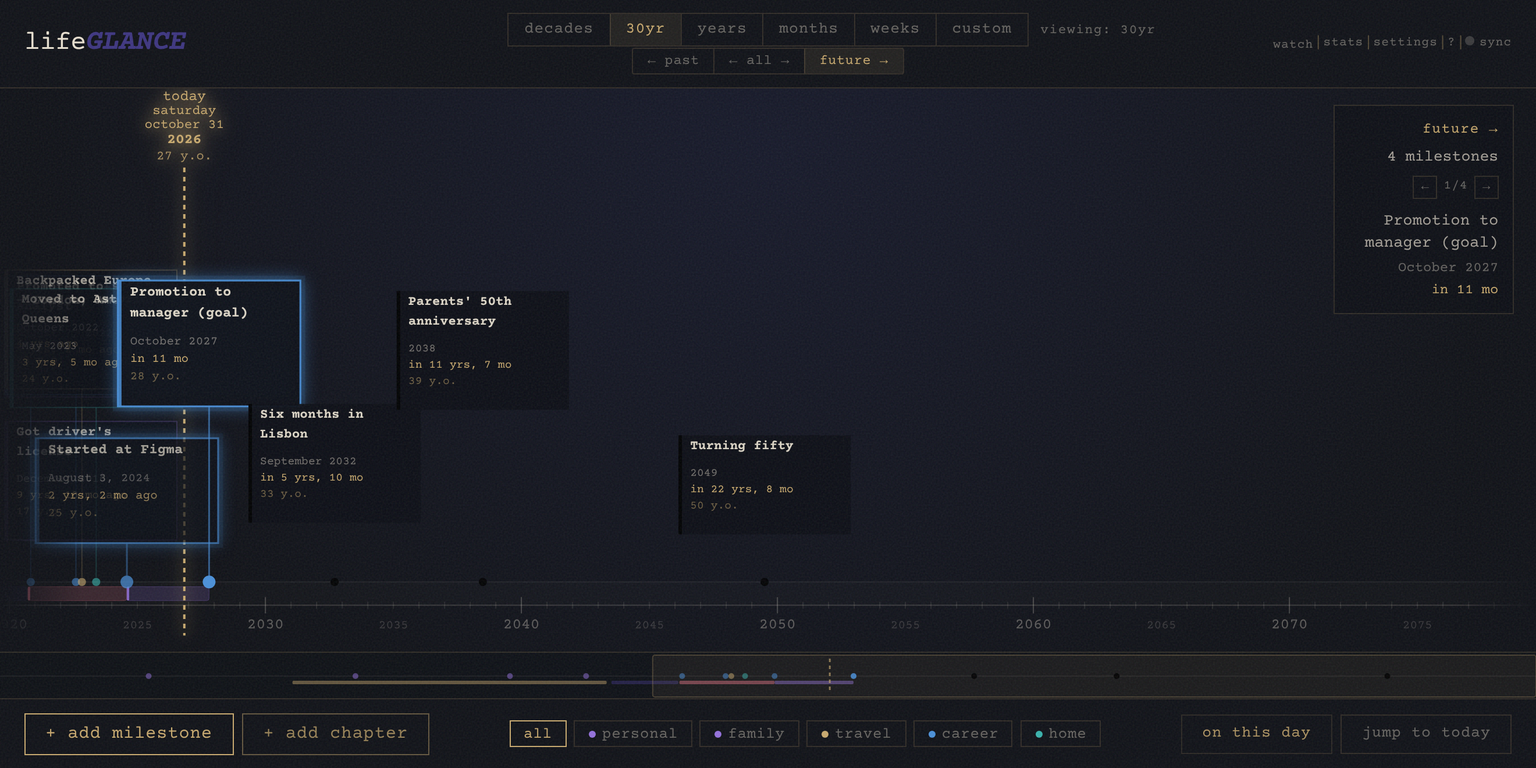
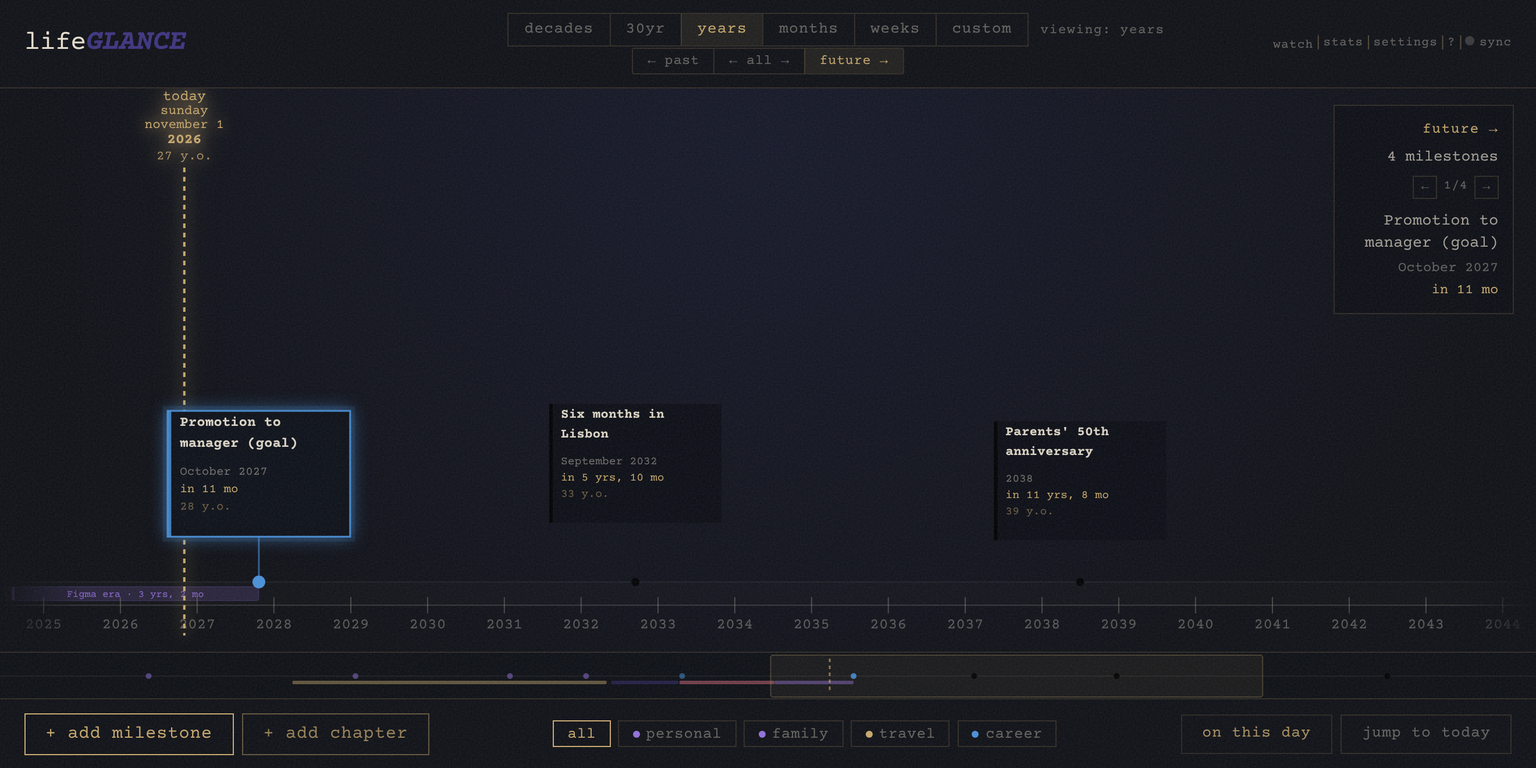
Rework store screenshots 2 and 3
Shot 3, THE FUTURE HALF. The 30yr zoom put the near-term milestones in a bunch
at the left and left the right 60% bare, which says the opposite of the
caption. Now 'years' in future view, which anchors today at 12% from the left
so the canvas goes to what is ahead.

That alone was not enough. Timeline.jsx does not cull a card just outside the
left edge — it clamps the x back into frame and only drops the card once it is
more than a card width out — so the 2022-2024 run stacked against the
boundary. Panning past it with ArrowRight pushed today off screen entirely, so
the shot gets its own seed instead, dropping that run. Everything remaining is
far enough back to be culled outright. Only past entries go, so the future
counter the shot displays is unchanged and still matches the rest of the set.

Shot 2, CHAPTERS. Cropped to the ribbon band plus the cards either side of it,
feathered at the two cut edges. Full width is kept deliberately and the sides
are not faded: every other frame in the set is a full-width pane, and fading
the sides too would make this one read as a different treatment rather than
the same app window cropped. Text size goes to 'big', which raises the ribbons
themselves — CHAPTER_ROW_H is remPx * 0.62 — and their labels with them.

Everything is re-rendered, not just those two. The seed is dated at run time
and the date rolled over mid-session, so the set was about to carry two
different "today" values across one gallery. The frames called final are
[…]

diff --git a/scripts/compose-apple-frames.py b/scripts/compose-apple-frames.py
@@ -176,7 +176,11 @@ def k(v):
 SHOTS = [
     dict(kind="iphone", out="iphone-dynamic-island/01-decades.png", panes=["iphone/01a"],
          eyebrow="DECADES TO WEEKS", l1="See your whole life,", l2="at a glance."),
+    # Cropped to the ribbon band plus the cards either side of it. Uncropped,
+    # the ribbons are a thin line with a third of the pane empty beneath them
+    # and the cards dominating a frame whose caption is about chapters.
     dict(kind="iphone", out="iphone-dynamic-island/02-chapters.png", panes=["iphone/02a"],
+         band=(0.28, 0.76, 85),
          eyebrow="CHAPTERS", l1="The eras you lived,", l2="drawn to scale."),
     dict(kind="iphone", out="iphone-dynamic-island/03-future.png", panes=["iphone/03a"],
          eyebrow="THE FUTURE HALF", l1="Half your timeline", l2="hasn't happened yet."),
@@ -193,6 +197,27 @@ SHOTS = [
     dict(kind="ipad", out="ipad13/07-milestone.png", panes=["ipad/07a"],
          eyebrow="IN CONTEXT", l1="One moment,", l2="and everything around it."),
 ]
+
+
+def band_crop(pane, y0, y1, fade):
+    """Crop a pane to a horizontal band and feather the two cut edges.
+
+    Full width is kept deliberately: every other frame in the set is a
+    full-width pane, and fading the sides as well would make this one read as
+    a different treatment rather than the same app window cropped. Only the
+    top and bottom cuts are feathered, so the band dissolves into the
+    background instead of ending on a hard line.
+    """
+    h = pane.height
+    band = pane.crop((0, round(y0 * h), pane.width, round(y1 * h)))
+    mask = Image.new("L", band.size, 255)
+    px = mask.load()
+    for y in range(min(fade, band.height)):
+        v = round(255 * y / fade)
+        for x in range(band.width):
+            px[x, y] = v
+            px[x, band.height - 1 - y] = v
+    return band, mask
 
 
 def compose_iphone(shot, pane_dir, out_path):
@@ -227,7 +252,12 @@ def compose_iphone(shot, pane_dir, out_path):
         top = eb_y + cap_h + 110
         draw_bullets(canvas, bullets, top, top + bul_h,
                      size=bul_size, gap=bul_gap, cx=cx)
-    canvas.paste(pane, (CAPTION_COL, 0))
+    if shot.get("band"):
+        y0, y1, fade = shot["band"]
+        band, mask = band_crop(pane, y0, y1, fade)
+        canvas.paste(band, (CAPTION_COL, (IPHONE_H - band.height) // 2), mask)
+    else:
+        canvas.paste(pane, (CAPTION_COL, 0))
     canvas.save(out_path)
     return canvas.size
 
